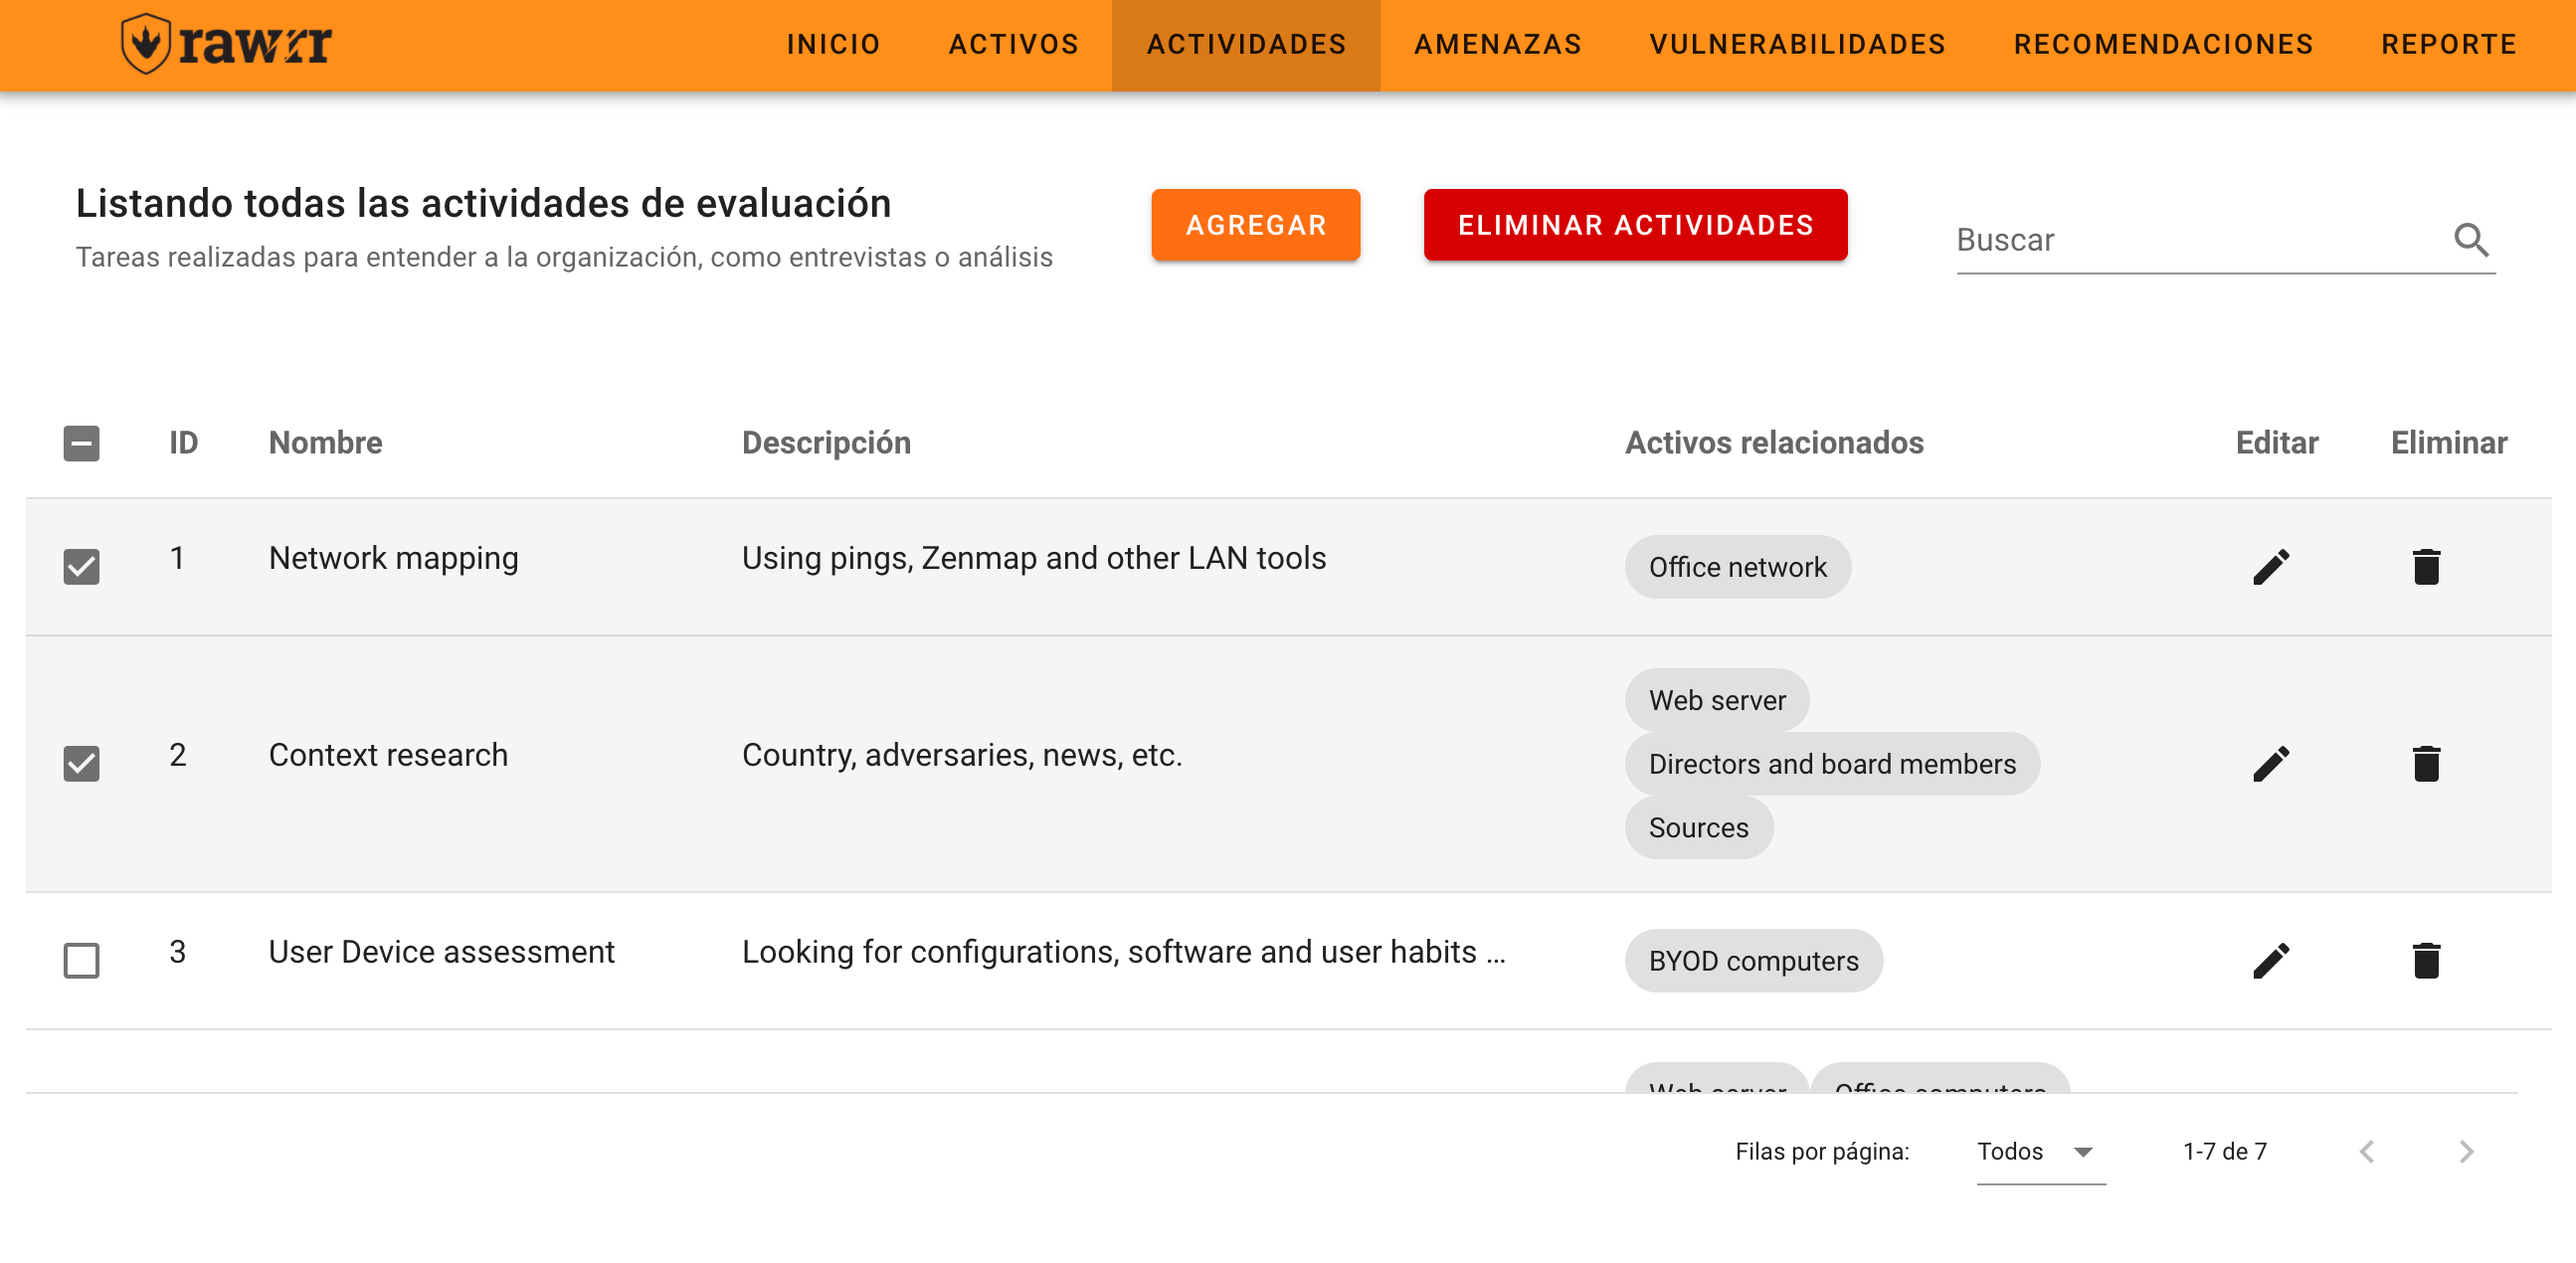
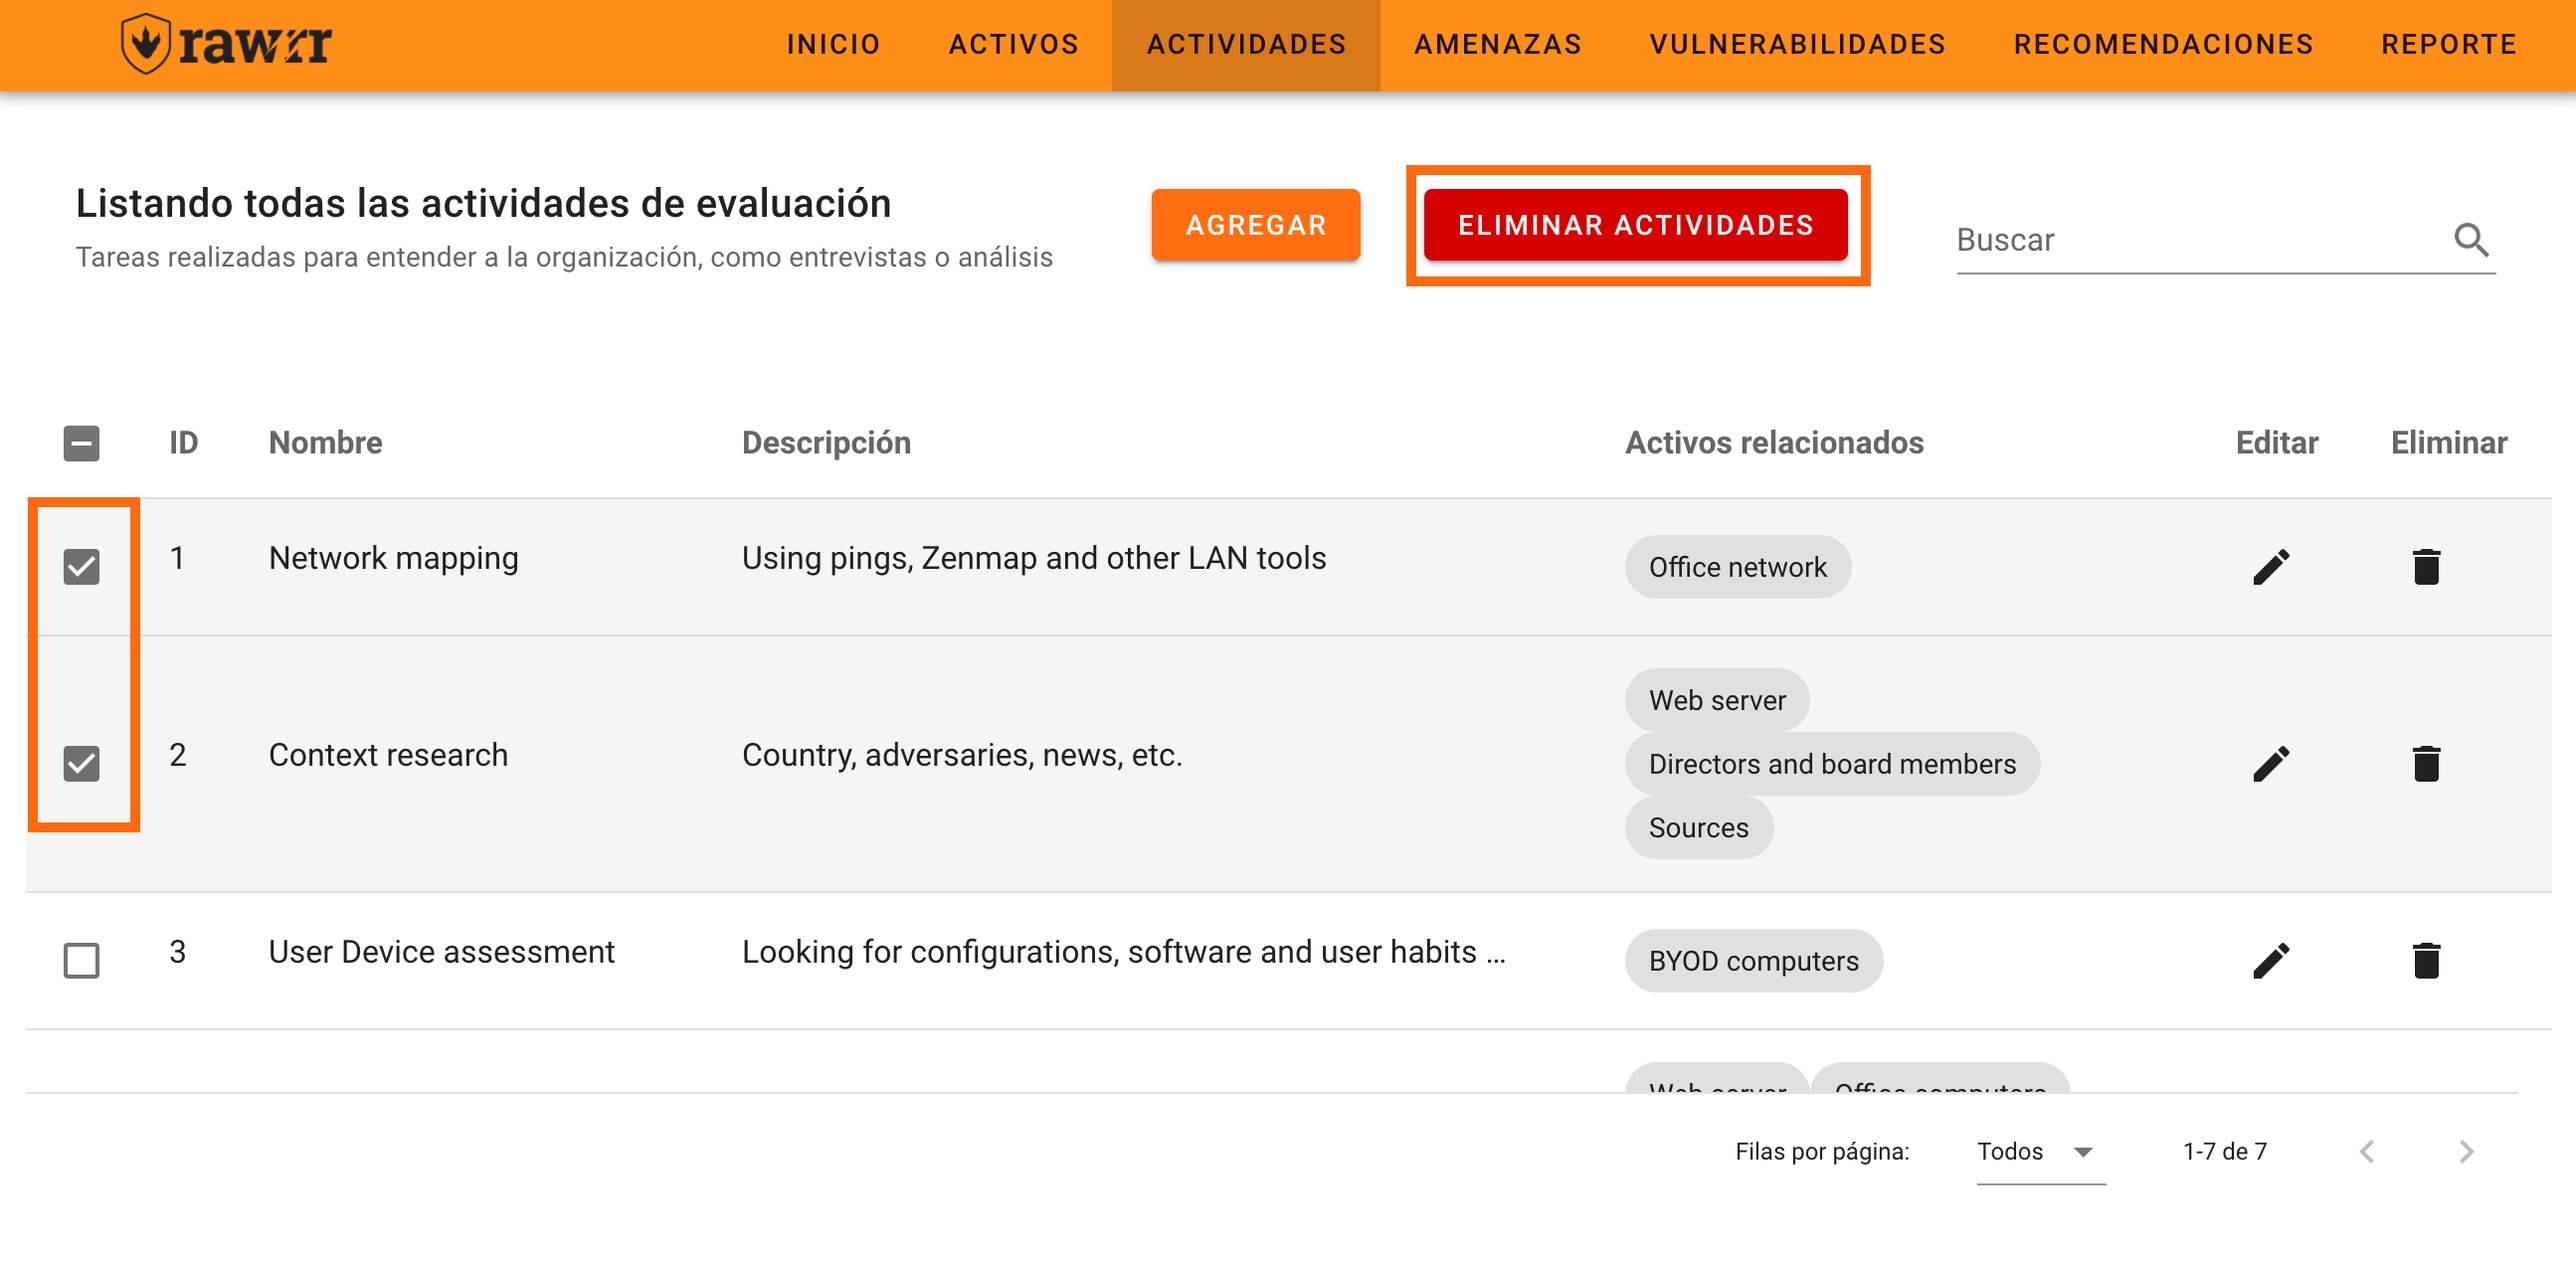
Update from Forestry.io Conexo created docs/static/images/eliminar-varias-actividades.png Conexo updated docs/content/3 Funciones/actividades.md

Changed region(s): [[0.0, 0.3685, 0.0618, 0.6756], [0.5251, 0.1228, 0.7413, 0.2457]]

diff --git a/docs/content/3 Funciones/actividades.md b/docs/content/3 Funciones/actividades.md
@@ -12,45 +12,45 @@ weight: "3"
 {{< button size="large" relref="amenazas" >}} Amenazas <i class="arrow right"></i> {{< /button >}}
 </div>
 
-Some examples of the activities include interviews, technical scans, and additional asset or data mapping. The basic functions of RAWRR related to the activities are:
+Algunos ejemplos de esas actividades incluyen entrevistas, escaneos técnicos y mapeo adicional de activos o datos. Las funciones básicas de RAWRR relativas a la actividades son:
 
-## View activity list
+## Ver lista de actividades
 
-If you have started RAWRR by importing a file or loading the test values, it is convenient that you can carefully review the preloaded information before creating or editing any element. To see the full list of activities you can click on **“All”** in the lower right next to the phrase “Rows per page”. You can also select to view five (5), ten (10), or fifteen (15) items per page.
+Si has iniciado RAWRR importando un archivo o cargando los valores de prueba, es conveniente que puedas revisar detenidamente la información precargada antes de crear o editar algún elemento. Para ver la lista completa de actividades puedes hacer clic en “Todos” en la parte inferior derecha junto a la frase “Filas por página”. También puedes seleccionar ver cinco (5), diez (10) o quince (15) elementos por página.
 
-![](/images/ac-listar.png)
+![](/images/actividades-lista.png)
 
-## Create activities
+## Crear actividades
 
-To add activities, click on **"Add new"** at the top left and complete the fields that will appear in the form: name, description and assets.
+Para agregar actividades haz click en **“Agregar”** arriba a la izquierda y completa los campos que aparecerán en el formulario: nombre, descripción y activos.
 
-![](/images/ac-nueva-ac.png)
+![](/images/agregar-actividades.png)Cuando hayas terminado haz clic en **“Insertar”**.
 
-When you are done click on **"Insert"**.
+![](/images/insertar-nueva-actividad.png)
 
-![](/images/ac-nueva-ac-2.png)
+## Editar actividades
 
-## Edit activities
+Para editar haz click en el ícono del lápiz ubicado a la derecha de cada una de las actividades que aparecen en la lista preexistente.
 
-To edit, click on the pencil icon located to the right of each activity that appears in the existing list.
+![](/images/editar-actividades.png)
 
-![](/images/ac-editar-1.png)When you finish editing the name, description and/or asset fields, click **"Update"** to save the changes to the activity you selected.
+Cuando termines de editar los campos de nombre, descripción y/o activo, haz clic en **“Actualizar”** para guardar los cambios en la actividad que seleccionaste.
 
-![](/images/ac-editar-2.png)
+![](/images/actualizar-edicion-de-actividad.png)
 
-## Delete activities
+## Eliminar actividades
 
-If you want to delete an activity from the list, click on the trash can icon located to the right of each activity that appears in the existing list.
+Si deseas eliminar alguna actividad de la lista, también podrás hacerlo haciendo clic en el ícono de la papelera ubicado a la derecha de cada uno de las actividades que aparecen en la lista preexistente.
 
-![](/images/ac-eliminar-1.png)
+![](/images/eliminar-actividades.png)
 
-When you click, a confirmation message will appear. If you agree to delete the activity, click **"Delete"**.
+Cuando hagas clic aparecerá un mensaje de confirmación. Si estás de acuerdo con eliminar la actividad haz clic en **“Eliminar”**.
 
-![](/images/ac-eliminar-2.png)
+![](/images/confirmar-eliminar-actividades.png)
 
-You can also delete multiple activities by selecting them in the left box and then clicking **"Delete Activities"**.
+También puedes eliminar varias actividades seleccionandolas en la casilla izquierda y a continuación haz clic en **“Eliminar Actividades”**.
 
-![](/images/ac-eliminar-3.png)
+![](/images/eliminar-varias-actividades.png)
 
 <div style="display: flex; justify-content: space-between">
 {{< button size="large" relref="activos" >}} <i class="arrow left"></i> Activos {{< /button >}}
